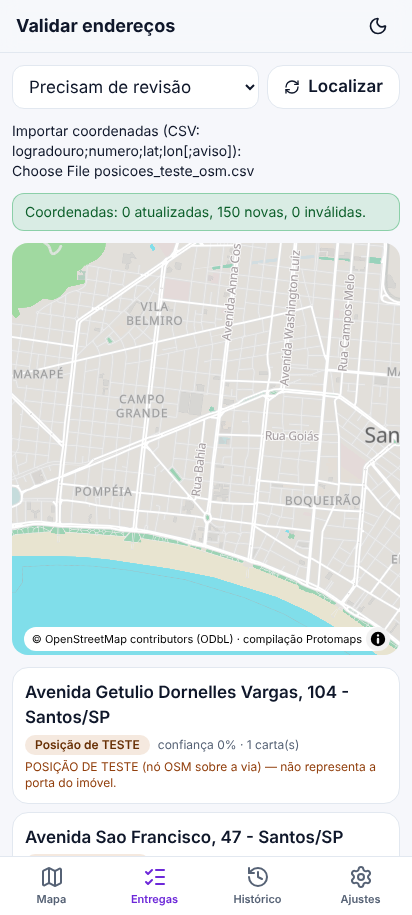
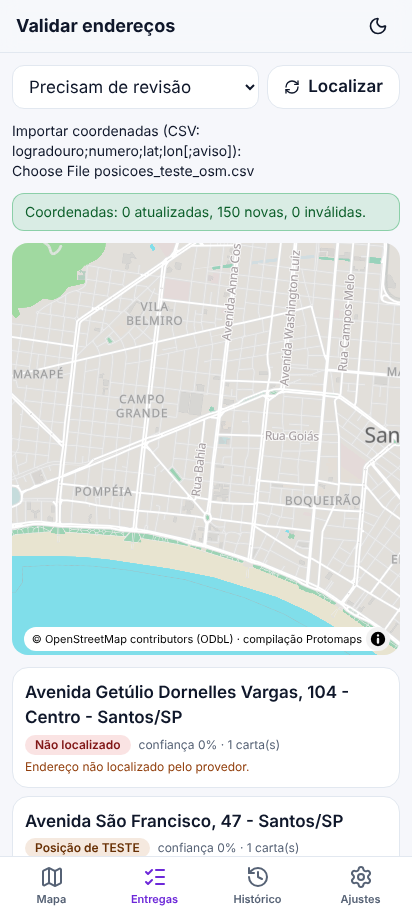
2.1: acentos na exibição, revisão assistida com alternativas, doc de importação
Claude-Session: https://claude.ai/code/session_015CedTWmR5xexhe4DhTTCww

Changed region(s): [[0.0583, 0.765, 0.932, 0.9486]]

diff --git a/mobile/src/core/normalize.ts b/mobile/src/core/normalize.ts
@@ -53,6 +53,23 @@ export function splitStreet(raw?: string | null): [string | null, string] {
   return [type, tokens.map((t, i) => (i < tokens.length - 1 ? TITLES[t] ?? t : t)).join(" ")];
 }
 
+/** Exibição COM acentos: usa o texto original (tokens abreviados são expandidos; chaves e consultas continuam sem acento). */
+export function prettyKeep(raw?: string | null): string {
+  const toks = clean(raw).replace(/\//g, " / ").split(" ").filter(Boolean);
+  const stop = new Set(["de", "da", "do", "das", "dos", "e"]);
+  return toks.map((t, i) => {
+    const n = normText(t).replace(/\./g, "");
+    if (i === 0 && STREET_TYPES[n]) {
+      const full = STREET_TYPES[n];
+      if (normText(t).replace(/\./g, "") === full) return t.toLowerCase()[0].toUpperCase() + t.toLowerCase().slice(1).replace(/\.$/, ""); // digitado por extenso (com acento)
+      return ({ PRACA: "Praça", SERVIDAO: "Servidão" } as Record<string, string>)[full] ?? pretty(full);
+    }
+    if (i < toks.length - 1 && TITLES[n]) return pretty(TITLES[n]);
+    const lower = t.toLowerCase();
+    return i && stop.has(lower) ? lower : lower[0].toUpperCase() + lower.slice(1);
+  }).join(" ");
+}
+
 export const pretty = (s: string) =>
   s.split(" ").filter(Boolean).map((w, i) => (["DE", "DA", "DO", "DAS", "DOS", "E"].includes(w) && i ? w.toLowerCase() : w[0] + w.slice(1).toLowerCase())).join(" ");
 
@@ -93,9 +110,11 @@ export function normalizeAddress(street?: string | null, number?: string | null,
   }
   if (normText(cityRaw) !== normText(defaultCity)) issues.push(`Município diferente do padrão: ${cityRaw}`);
   const streetPretty = [type ? pretty(type) : "", pretty(name)].filter(Boolean).join(" ");
+  // exibição com acentos (a chave e a consulta usam streetPretty sem acento)
+  const streetShown = prettyKeep(street) || streetPretty;
   const nb = clean(neighborhood) || null;
-  const display = [streetPretty + (num ? `, ${num}` : ", S/N"), nb ? pretty(normText(nb)) : null,
-    `${pretty(normText(cityRaw))}/${state}`, cepN].filter(Boolean).join(" - ");
+  const display = [streetShown + (num ? `, ${num}` : ", S/N"), nb ? prettyKeep(nb) : null,
+    `${prettyKeep(cityRaw)}/${state}`, cepN].filter(Boolean).join(" - ");
   return {
     type, name, number: num, neighborhood: nb, city: cityRaw, state, cep: cepN, original, issues, errors,
     key: [type ?? "", name, num ?? "S/N", normText(cityRaw), state].join("|"),

diff --git a/mobile/src/pages/Addresses.tsx b/mobile/src/pages/Addresses.tsx
@@ -133,7 +133,18 @@ export function AddressesPage({ batchId }: { batchId: string }) {
         <Card className="space-y-2">
           <div className="font-semibold">{sel.display}</div>
           <div className="text-xs muted">Original: {sel.original}</div>
-          {candidates.length > 1 && <div className="text-xs">{candidates.map((c, i) => <div key={i}>{String.fromCharCode(65 + i)} — {c.label}</div>)}</div>}
+          {sel.source && <div className="text-xs muted" data-testid="provenance">Origem: {sel.source}</div>}
+          {sel.reason && <div className="text-xs text-amber-700">{sel.reason}</div>}
+          {candidates.length > 0 && (
+            <div className="space-y-1 text-xs" data-testid="candidates">
+              {candidates.map((c, i) => (
+                <div key={i} className="flex items-center gap-2">
+                  <span className="flex-1"><b>{i === 0 ? "Melhor sugestão" : `Alternativa ${String.fromCharCode(65 + i - 1)}`}</b> — {c.label}</span>
+                  <Button size="sm" variant="secondary" onClick={() => setPin({ lat: c.lat, lon: c.lon })}>Usar este ponto</Button>
+                </div>
+              ))}
+            </div>
+          )}
           <div className="text-xs">Confiança atual: <b>{trustOf(sel).label}</b>{isStale(sel) && <b className="text-amber-700"> · confirmação antiga (mais de 1 ano)</b>}</div>
           <Alert kind="info">Arraste o pino roxo até a <b>portaria</b> do imóvel. "Confirmar portaria" só quando o ponto for a entrada real; senão use "Confirmar posição".</Alert>
           <label className="block text-xs">Observação da entrada (opcional, ex.: portão azul, interfone 12)

diff --git a/mobile/tests/display_accents.test.ts b/mobile/tests/display_accents.test.ts
@@ -1,0 +1,15 @@
+import { describe, expect, it } from "vitest";
+import { normalizeAddress } from "../src/core/normalize";
+
+describe("endereço exibido mantém acentos; chave continua sem acento", () => {
+  it("Rua Joaquim Távora / Praça / Avenida Senador Feijó", () => {
+    expect(normalizeAddress("R. Joaquim Távora", "480", "Vila Belmiro").display).toBe("Rua Joaquim Távora, 480 - Vila Belmiro - Santos/SP");
+    expect(normalizeAddress("Praça Visconde de Mauá", "11").display.split(" - ")[0]).toBe("Praça Visconde de Mauá, 11");
+    expect(normalizeAddress("Av. Senador Feijó", "104", "Vila Nova").display.split(" - ")[0]).toBe("Avenida Senador Feijó, 104");
+    expect(normalizeAddress("Rua Dr. Cesário Bastos", "5").display.split(" - ")[0]).toBe("Rua Doutor Cesário Bastos, 5");
+  });
+  it("a chave de deduplicação independe de acento e caixa", () => {
+    const a = normalizeAddress("Rua Joaquim Távora", "480"), b = normalizeAddress("RUA JOAQUIM TAVORA", "480");
+    expect(a.key).toBe(b.key);
+  });
+});

diff --git a/docs/IMPORTACAO_INTELIGENTE_ENDERECOS.md b/docs/IMPORTACAO_INTELIGENTE_ENDERECOS.md
@@ -1,0 +1,48 @@
+# Importação inteligente de endereços (Rota Santos 2.1)
+
+Objetivo: o entregador cola ou importa **sem configurar nada** — sem separador, sem cabeçalho, sem ordem de colunas.
+
+## Fluxo principal
+1. **Importar cartas** (botão na home) → colar texto, escolher CSV/XLSX/TXT.
+2. O app lê o conteúdo, decide sozinho se é tabela ou linhas livres e mostra uma prévia: *linhas lidas*, *válidas*, *precisam de correção*, *ambíguas*, *imóveis únicos*.
+3. **Confirmar**: as linhas válidas viram cartas; as inválidas **não são gravadas** (ficam no relatório com a linha original).
+4. Mapa → **Calcular rota**. Endereços sem posição confiável vão para a revisão assistida.
+A opção “Ajustar colunas” existe, mas fica escondida.
+
+## O que é entendido (texto livre)
+`mobile/src/core/freetext.ts` (regras e listas locais, sem modelo generativo):
+
+| Entrada | Resultado |
+|---|---|
+| `Rua Joaquim Távora 480` | Rua Joaquim Távora · 480 |
+| `R. Joaquim Távora, 480, Vila Belmiro` | idem + bairro Vila Belmiro |
+| `Praça Visconde de Mauá 11` | Praça Visconde de Mauá · 11 |
+| `Rua 7 de Setembro 120` | “7 de Setembro” é nome da rua; número 120 |
+| `Av. Ana Costa 100 apto 3 Gonzaga Santos SP` | número 100 · complemento “apto 3” · bairro Gonzaga · Santos/SP |
+| `1) Amador Bueno 25` | numeração de lista ignorada; sem tipo de logradouro → aviso |
+| `Rua Braz Cubas, 20 - Centro - Santos/SP, 11010-000` | CEP, bairro, cidade e UF separados |
+| `Rua Cidade de Toledo 15A casa 2 fundos` | número 15A · complemento “casa 2, fundos” |
+
+Regras: o número é o último token numérico da rua que não faça parte de “N de Mês” e não seja complemento (“apto 12”); `nº/no/num/#` são aceitos; `S/N` é sem número (nunca inventa número); bairro desconhecido é **inferido e sinalizado**, não silencioso. Tabelas (CSV/XLSX) continuam sendo lidas pelo conteúdo das colunas (`schema.ts`).
+
+## Escopo Santos/SP e desempate
+- Sem cidade/UF informados → **Santos/SP**.
+- Consulta ao geocodificador com `city=Santos`, `state=SP`, `countrycodes=br` e `viewbox` do município (viés, não filtro rígido).
+- Os candidatos são pontuados (`rank.ts`): município coincide (+), dentro do recorte de Santos (+), bairro coincide (+), CEP coincide (+) e **proximidade da posição atual do aparelho** (+, decai com a distância). Homônimo em outra cidade perde mesmo com confiança maior.
+- Dois pontos plausíveis em Santos com pontuação parecida → **revisão assistida** (mostra “Melhor sugestão” e “Alternativa”, “Usar este ponto”, confirmar posição/portaria). Se a posição do usuário resolve a dúvida, não pede revisão.
+- A posição do usuário só desempata localmente; **não é enviada** ao provedor.
+- Proveniência e motivo ficam salvos no endereço (`source`, `reason`).
+- O Nominatim público continua só para uso pontual/lote pequeno com cota; para volume use instância própria (Ajustes).
+
+## Duplicatas e várias cartas no mesmo imóvel
+- Duas cartas para o mesmo imóvel são **duas cartas** e **uma parada**.
+- Duplicata real = mesmo identificador **e** mesmo conteúdo. Identificador repetido com conteúdo diferente entra com aviso.
+- Cartas ≠ endereço ≠ parada em todo o app.
+
+## Reparo de importações antigas (“106, 106”)
+Entregas → aviso “N carta(s) com cadastro inválido” → **Reprocessar a partir da linha original**. Usa a linha original guardada (`Letter.raw`), infere o esquema do lote pelo conteúdo e só corrige o que passa a ser válido. Sem linha original, nada é inventado. Nada é excluído sem confirmação.
+
+## Limitações
+- A resolução final de posição exige geocodificador (rede). Sem rede, as cartas entram e ficam “não localizadas”.
+- Bairros reconhecidos por lista (Santos); bairros fora da lista são tratados como “inferidos”.
+- O ranking por proximidade usa a última posição conhecida do aparelho (GPS); sem GPS, só município/bairro/CEP.
